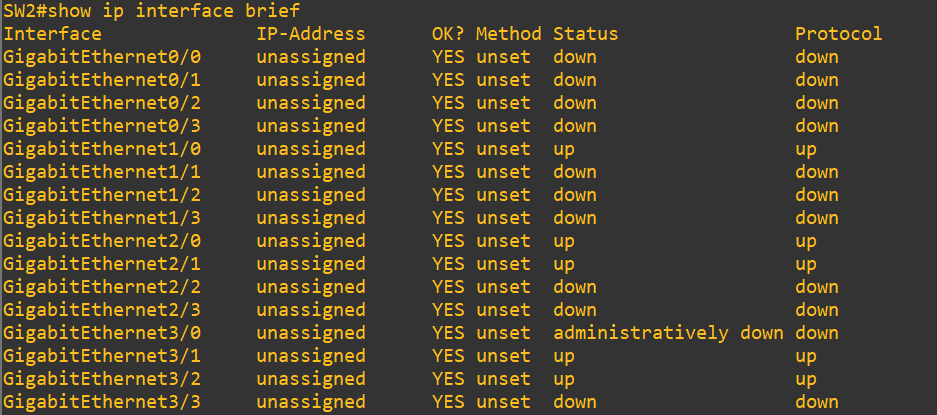
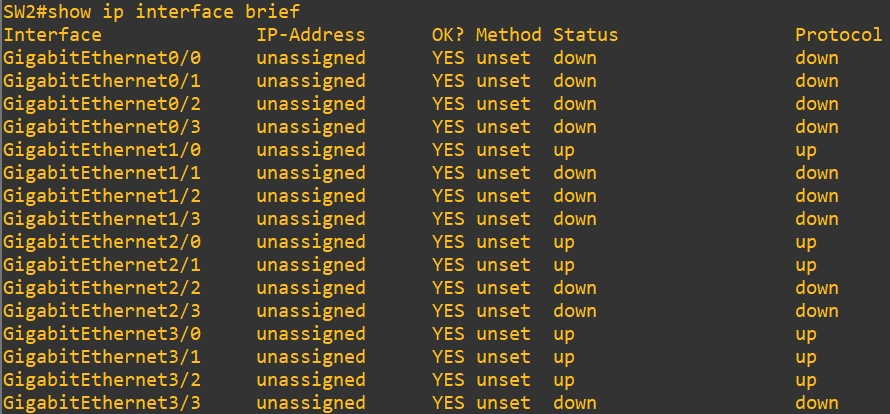
a

Changed region(s): [[0.0, 0.0, 0.4247, 1.0], [0.4551, 0.058, 0.9404, 1.0], [0.8494, 0.058, 1.0, 0.3188]]

diff --git a/README.md b/README.md
@@ -6,9 +6,9 @@
 
                 show ip interface brief
 
-![Bild SW2_showipinterfacebrief](Bilder/SW2_showipinterfacebrief.png)
+![Bild SW2_showipinterfacebrief](Bilder/SW2_showipinterfacebrief_errors.png)
 
-<p>In Admin Modus wechseln</p>
+<p>In Admin Modus wechseln mit:</p>
 
                 en
 
@@ -23,3 +23,37 @@
 <p>Port Starten</p>
 
                 no shut
+
+<p>Vorgeneommene Konfiguration überprüfen</p>
+
+![Bild SW2_showipinterfacebrief](Bilder/SW2_showipinterfacebrief.png)
+
+## Analyse SW3
+
+## Analyse SW4
+
+<p> Status der Switch-Ports abrufen um zu schauen welche Ports den Status "Down" haben.</p>
+
+                show ip interface brief
+
+![Bild SW2_showipinterfacebrief](Bilder/SW4_showipinterfacebrief_errors.png)
+
+<p>In Admin Modus wechseln mit:</p>
+
+                en
+
+<p>Konfiguration aufrufen und mit "t" den Terminal-Modus auswählen.</p>
+
+                conf t
+
+<p>Interfaces 3/0 auswählen</p>
+
+                interface g3/0
+
+<p>Port Starten</p>
+
+                no shut
+
+<p>Vorgeneommene Konfiguration überprüfen</p>
+
+![Bild SW2_showipinterfacebrief](Bilder/SW4_showipinterfacebrief.png)
